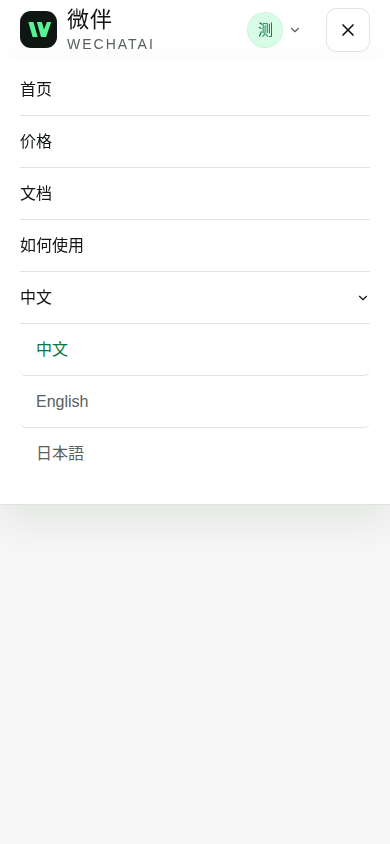
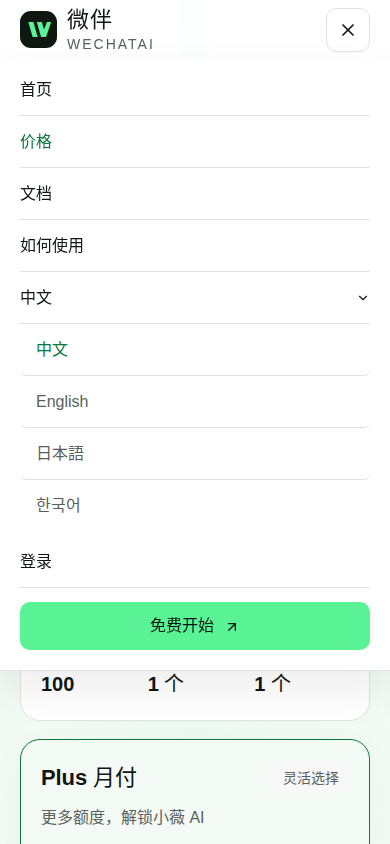
test(i18n): capture real four-language pricing menus (wechatai-qvi)
Card: e91d3210-4b3d-4a8f-95da-21235a1dd4db
Replace fixture screenshots with captures from built /pricing at 1280px and 390px. Keep fixture layout assertions but stop writing into tracked acceptance evidence.

diff --git a/test/browser/site-header.spec.ts b/test/browser/site-header.spec.ts
@@ -1,15 +1,12 @@
 import { expect, test, type Page } from "@playwright/test";
 import { build } from "esbuild";
-import { mkdir } from "node:fs/promises";
 import { basename } from "node:path";
 import { fileURLToPath } from "node:url";
 
 const root = fileURLToPath(new URL("../../", import.meta.url));
-const acceptance = fileURLToPath(new URL("../../internal-docs/acceptance/", import.meta.url));
 
 const assets = new Map<string, Uint8Array>();
 test.beforeAll(async () => {
-  await mkdir(acceptance, { recursive: true });
   // Render the real header and styles; only authentication, translations and API data are fixtures.
   const result = await build({
     stdin: {
@@ -182,7 +179,6 @@ test("language dropdown keeps the desktop header height and closes on outside pr
   const expanded = (await header.boundingBox())!.height;
   expect(expanded).toBe(baseline);
   expect(expanded).toBeLessThanOrEqual(65);
-  await page.screenshot({ path: `${acceptance}/language-switcher-desktop.png` });
 
   await page.locator("main").click({ position: { x: 8, y: 8 } });
   await expect(trigger).toHaveAttribute("aria-expanded", "false");
@@ -259,7 +255,6 @@ test("language menu fits the 390px drawer and the first Escape only closes the m
   });
   expect(overflow.page).toBeLessThanOrEqual(0);
   expect(overflow.drawer).toBeLessThanOrEqual(0);
-  await page.screenshot({ path: `${acceptance}/language-switcher-390.png` });
 
   await page.keyboard.press("Escape");
   await expect(menu).toHaveCount(0);
